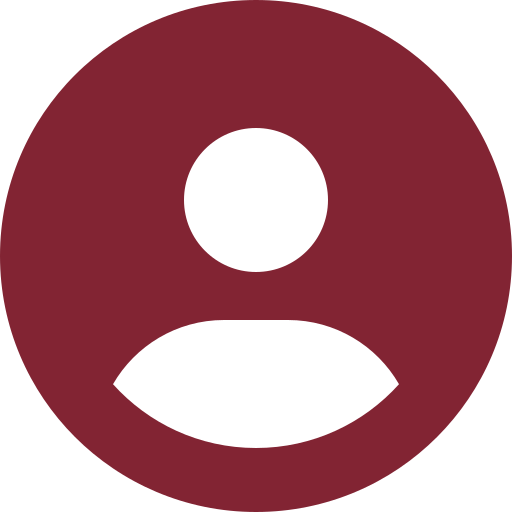
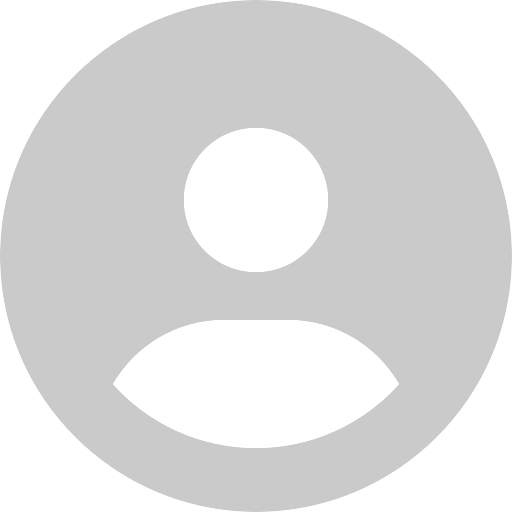
Cambio estetica navbar

diff --git a/src/mappa/Navbar.java b/src/mappa/Navbar.java
@@ -23,8 +23,8 @@ public class Navbar extends JPanel {
 
         
         // Gestione delle caratteristiche della navbar
-        this.setOpaque(false);
-        this.setBackground(new Color(255, 255, 255, 0));
+        this.setOpaque(true);
+        this.setBackground(new Color(130, 36, 51));
         this.setLayout(null);
 
         
@@ -32,6 +32,10 @@ public class Navbar extends JPanel {
         mappaNormale = new JButton();
         mappaSatellitare = new JButton();
         mappaMista = new JButton();
+        
+        mappaNormale.setBackground(new Color(130, 36, 51));
+        mappaSatellitare.setBackground(new Color(130, 36, 51));
+        mappaMista.setBackground(new Color(130, 36, 51));
         
         Dimension buttonDimension = new Dimension(50, 50);
         mappaNormale.setPreferredSize(buttonDimension);
@@ -86,9 +90,8 @@ public class Navbar extends JPanel {
         // Raggruppamento dei pulsanti in un unico pannello
         mapButtonGroup = new JPanel(new FlowLayout(FlowLayout.LEFT, 5, 0));
         
-        mapButtonGroup.setOpaque(false);
-        mapButtonGroup.setBounds(30, 20, 180, 50);
-        mapButtonGroup.setBackground(new Color(255, 255, 255, 0));
+        mapButtonGroup.setBounds(30, 10, 180, 50);
+        mapButtonGroup.setBackground(new Color(130, 36, 51));
 
         mapButtonGroup.add(mappaNormale);
         mapButtonGroup.add(mappaSatellitare);
@@ -100,9 +103,10 @@ public class Navbar extends JPanel {
         // Barra di ricerca, con annessa gestione del testo placeholder
         searchBar = new JTextField("  Cerca linea o fermata...");
         
-        searchBar.setBounds(440, 5, 300, 35);
-        searchBar.setBackground(new Color(255, 255, 255, 160));
+        searchBar.setBounds(getWidth() - searchBar.getWidth() / 2, 15, 500, 40);
+        searchBar.setBackground(new Color(202, 202, 202));
         searchBar.setFont(new Font("Arial Nova", Font.BOLD, 12));
+        searchBar.setForeground(new Color(0,0,0));
         
         this.add(searchBar);
 
@@ -126,6 +130,7 @@ public class Navbar extends JPanel {
         
         // Pulsante per la sezione utente
         btnLogin = new JButton();
+        btnLogin.setBackground(new Color(130, 36, 51));
         
         btnLogin.setPreferredSize(new Dimension(50, 50));
         btnLogin.setBounds(getWidth() - btnLogin.getWidth() - 40, 10, 50, 50);
